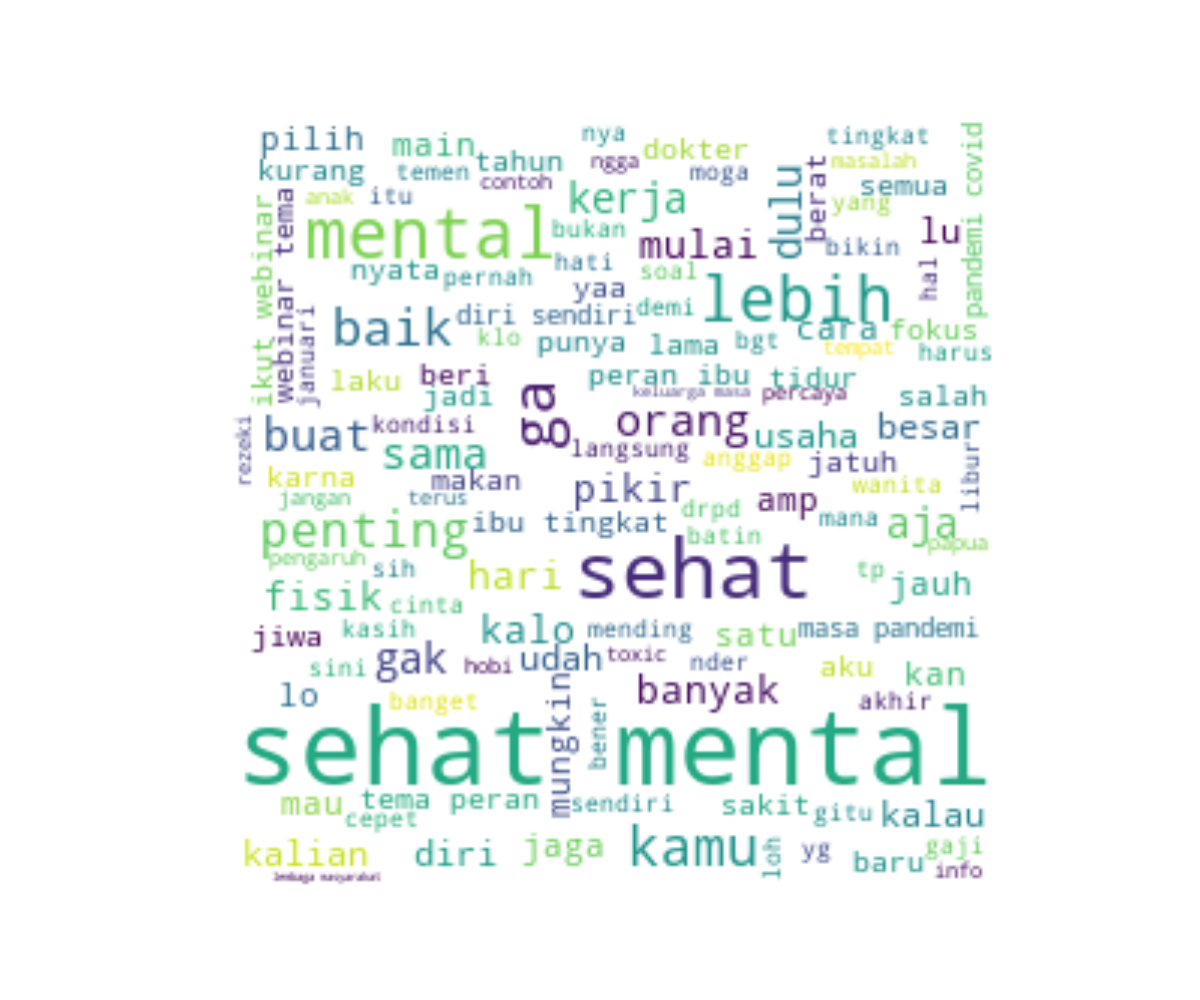
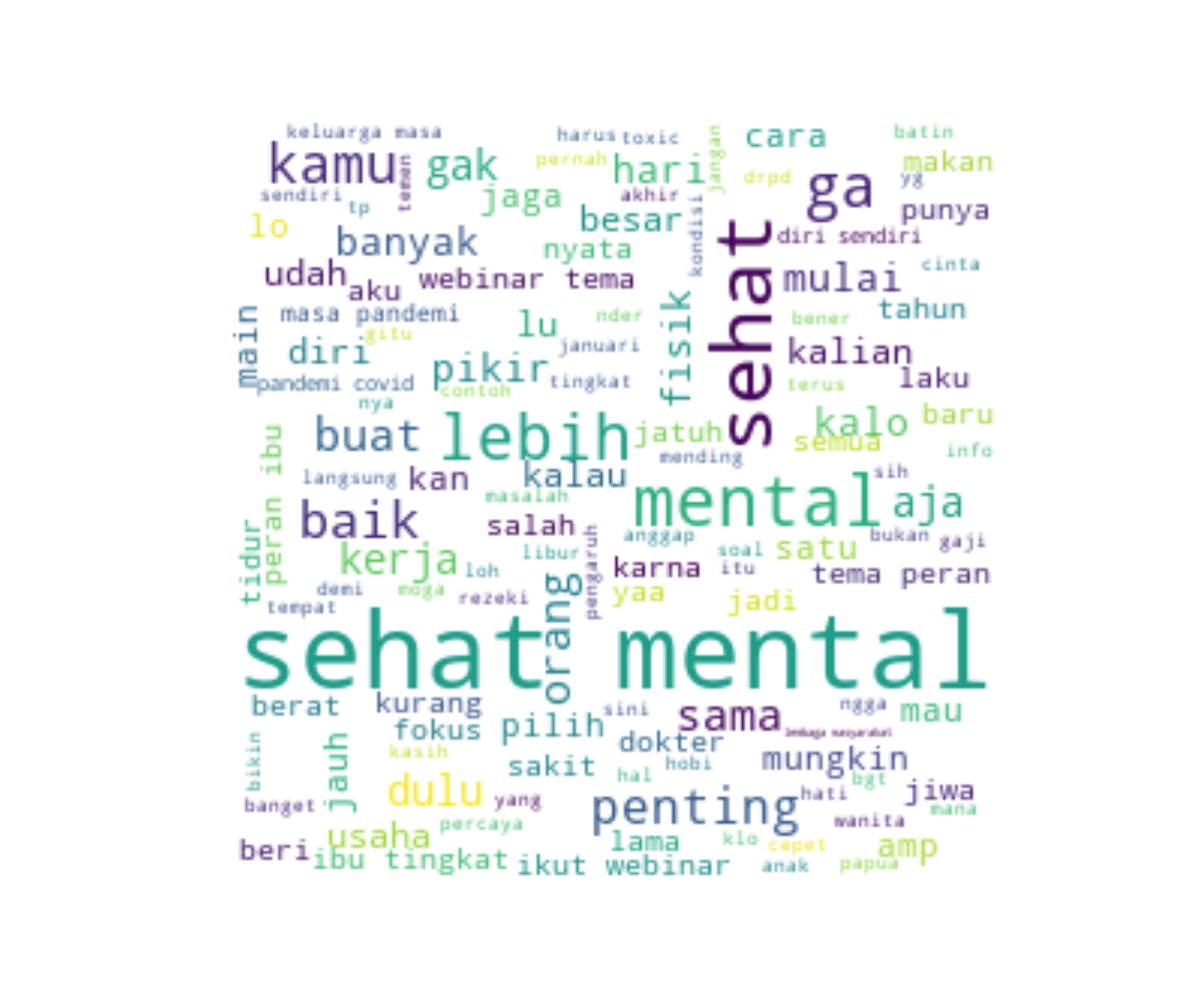
tambah diagram batang

Changed region(s): [[0.185, 0.124, 0.8325, 0.899]]

diff --git a/templates/klasifikasi.html b/templates/klasifikasi.html
@@ -184,9 +184,9 @@ Coded by www.creative-tim.com
               <div class="card" style="border-radius: 10px;">
                 <!-- <img class="card-img-top" src="..." alt="Card image cap"> -->
                 <div class="card-body">
-                  <h5 class="card-title">Word Cloud</h5>
+                  <h5 class="card-title">Diagram Batang</h5>
                   <hr>
-                  <img src="assets/files/wordcloud.png"  style="width: 500px;height: 500px;object-fit:cover">
+                  <img src="assets/files/diagram-batang.png"  style="width: 500px;height: 500px">
                   <p class="card-text"><small class="text-muted">Last updated 3 mins ago</small></p>
                 </div>
               </div>
@@ -208,30 +208,20 @@ Coded by www.creative-tim.com
               <p class="card-text">Some quick example text to build on the card title and make up the bulk of the card's content.</p>
             </div>
           </div> -->
-        </div>
-        
-      </div>
-      <div class="content">
-        <div class="row">
-          <div class="col-md-12">
-            <h3 class="description">Your content here</h3>
-          </div>
-        </div>
-      </div>
-      <footer class="footer" style="position: absolute; bottom: 0; width: -webkit-fill-available;">
-        <div class="container-fluid">
-          <div class="row">
-            <nav class="footer-nav">
-             
-            </nav>
-            <div class="credits ml-auto">
-              <span class="copyright">
-                © 2021, made with <i class="fa fa-heart heart"></i> by Ranita Wahyu Utami
-              </span>
+
+          <div class="card" style="border-radius: 10px; margin-top:30px">
+            <!-- <img class="card-img-top" src="..." alt="Card image cap"> -->
+            <div class="card-body">
+              <h5 class="card-title">Wordcloud</h5>
+              <hr>
+              <center><img src="assets/files/wordcloud.png"  style="width: 500px;height: 500px;object-fit:cover"></center>
             </div>
           </div>
         </div>
-      </footer>
+
+        
+      </div>
+     
     </div>
   </div>
   <!--   Core JS Files   -->

diff --git a/app.py b/app.py
@@ -105,11 +105,14 @@ df= None
 df2 = None
 imageUrl = ""
 imageUrlDiagram = ""
+imageUrlDiagramBatang = ""
+
 akurasi = 0
 def klasifikasi_data():
     global df
     global imageUrl
     global df2
+    global imageUrlDiagramBatang
     global imageUrlDiagram
     global akurasi
     # membca csv
@@ -194,6 +197,19 @@ def klasifikasi_data():
     plt.pie(sizes, labels=labels, autopct='%1.0f%%', shadow=True, textprops={'fontsize': 20})
     plt.savefig('templates/assets/files/diagram.png')
     imageUrlDiagram = "templates/assets/files/diagram.png"
+
+    # diagram batang
+    # creating the bar plot
+
+    plt.figure()
+
+    plt.hist(numbers_list)
+    
+    plt.xlabel("Tweet tentang Xiaomi")
+    plt.ylabel("Jumlah Tweet")
+    plt.title("Presentase Sentimen Tweet Xiaomi Redmi")
+    plt.savefig('templates/assets/files/diagram-batang.png')
+    imageUrlDiagramBatang = "templates/assets/files/diagram-batang.png"
         
 
     
@@ -373,7 +389,7 @@ def klasifikasi():
     # if request.method == 'POST':
     #     if request.form.get('matriks') == 'matriks':
     
-    return render_template('klasifikasi.html',wc=imageUrl,diagram=imageUrlDiagram,  accuracy=akurasi, tables=[df.to_html(classes='table table-striped', index=False)], titles=df.columns.values, tables2=[df2.to_html(classes='table table-striped', index=False)], titles2=df2.columns.values)
+    return render_template('klasifikasi.html',wc=imageUrl,diagram=imageUrlDiagram,diagramBatang=imageUrlDiagramBatang , accuracy=akurasi, tables=[df.to_html(classes='table table-striped', index=False)], titles=df.columns.values, tables2=[df2.to_html(classes='table table-striped', index=False)], titles2=df2.columns.values)
      
             
 
